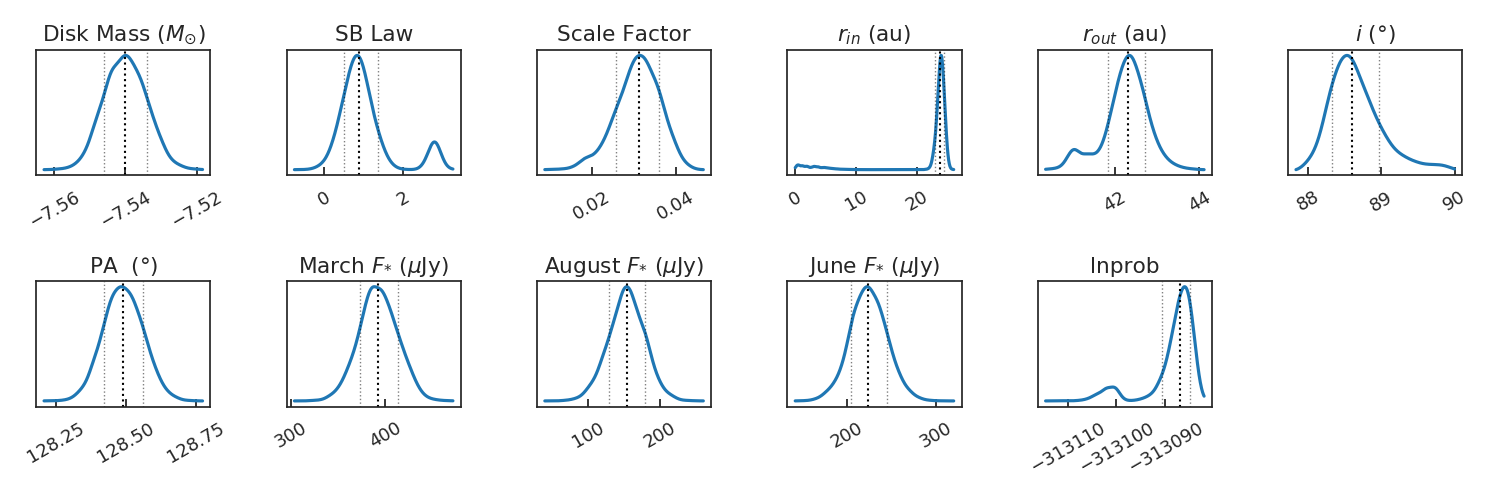
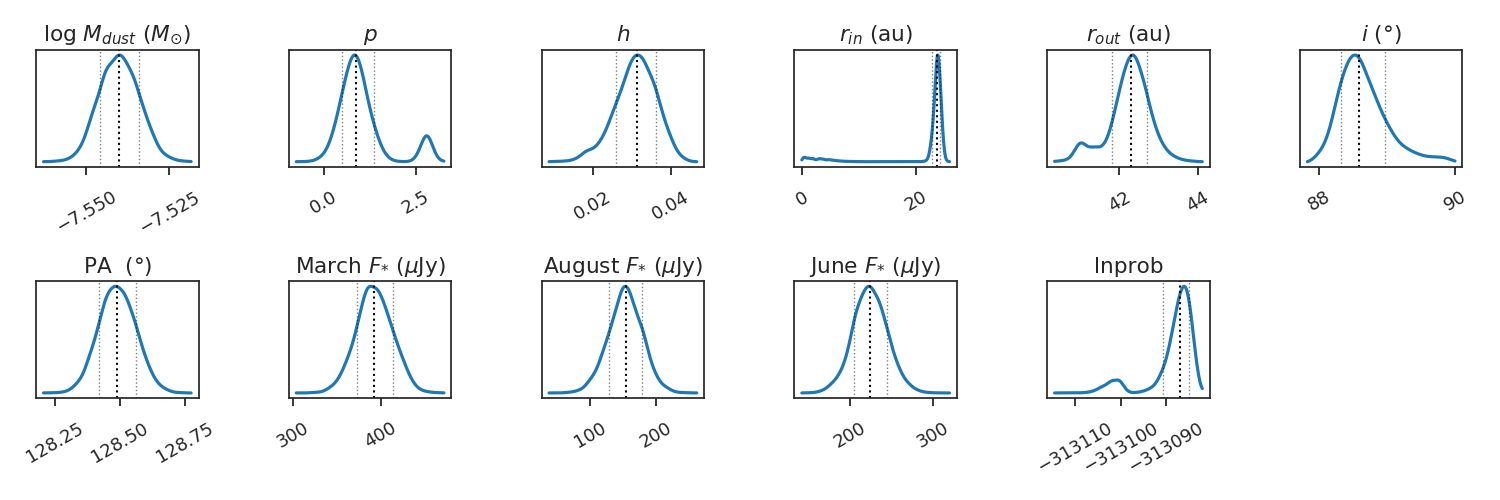
better plots

diff --git a/modeling/run19_fiducial.py b/modeling/run19_fiducial.py
@@ -64,7 +64,7 @@ This run consitutes (hopefully) our final, fiducial model.''')
         # old_nsamples = run.groomed.shape[0]
         # run.groomed = run.groomed[run.groomed['r_in'] + run.groomed['d_r'] > 20]
         # print('{} samples removed.'.format(old_nsamples - run.groomed.shape[0]))
-
+        
         if args.corner_vars:
             cols = list(run.groomed.columns)
             col_indices = [cols.index(col) for col in args.corner_vars]
@@ -72,7 +72,7 @@ This run consitutes (hopefully) our final, fiducial model.''')
         if args.analyze or args.best_fit: make_best_fits(run, concise=args.concise)
         aumic_fitting.label_fix(run)
         if args.corner_vars: corner_vars = run.groomed.columns[col_indices]
-
+        
         if args.analyze or args.evolution: run.evolution()
         if args.analyze or args.kernel_density: run.kde()
         if args.analyze or args.corner: run.corner(variables=corner_vars)
@@ -263,8 +263,8 @@ def make_best_fits(run, concise=False):
                ],
            title= run.name + r'Global Best Fit Model & Residuals',
           savefile=run.name+'/' + run.name + '_bestfit_global.pdf')
-
+          
 
 if __name__ == '__main__':
     main()
-
+    

diff --git a/writing/thesis/thesis_master.tex b/writing/thesis/thesis_master.tex
@@ -179,7 +179,7 @@ We examine the significance of these features more carefully in Section \ref{sec
 
 \section{Analysis}
 \label{section: analysis}
-Previous studies of the scale height of debris disks have demonstrated a degeneracy between vertical structure, radial structure, and viewing geometry (\textbf{insert appropriate citations}.. Hughes?).  
+Previous studies of the scale height of debris disks have demonstrated a degeneracy between vertical structure, radial structure, and viewing geometry \citep[e.g.][]{milli14}.  
 The modeling approach we adopt is designed to use appropriate ray tracing along with MCMC methods to investigate the degree to which these known degeneracies impact our ability to measure the vertical structure of the disk.  
 We use the parametric structure and ray tracing disk code described in \cite{flaherty15}, itself an adaptation of earlier work by \cite{rosenfeld13}.
 Synthetic sky-projected images are generated from an assumed temperature and density structure and are subsequently Fourier transformed to create model visibilities that can be directly compared to the interferometric data.

diff --git a/modeling/aumic_fitting.py b/modeling/aumic_fitting.py
@@ -46,11 +46,12 @@ def label_fix(run):
         df.loc[:,'inc'].where(df.loc[:,'inc'] < 90, 180-df.loc[:,'inc'], inplace=True)
         
         df.rename(inplace=True, columns={
-            'm_disk' : r'Disk Mass ($M_{\odot}$)', 
-            'sb_law' : r'SB Law',
-            'scale_factor' : r'Scale Factor', 
+            'm_disk' : r'$\log \ M_{dust}$ ($M_{\odot}$)', 
+            'sb_law' : r'$p$',
+            'scale_factor' : r'$h$', 
             'r_in' : r'$r_{in}$ (au)',
             'd_r' : r'$r_{out}$ (au)',
+            # 'd_r' : r'$\Delta r$ (au)',
             'inc' : r'$i$ ($\degree$)',
             'pa'  : r'PA  ($\degree$)',
             'mar_starflux' : r'March $F_{*}$ ($\mu$Jy)',

diff --git a/modeling/compare_runs.py b/modeling/compare_runs.py
@@ -21,8 +21,12 @@ for i in range(6,100):
 run_names = [glob(run + '_*')[0][:-3] for run in runs]
 
 # pull nsamples, number of free params, and min chi^2 from each chain
+
 for run, run_name in zip(runs, run_names):
     chain = pd.read_csv('{}/{}_chain.csv'.format(run,run))
+    # print(run_name + ':') 
+    # print(chain.shape[0])
+    chain = chain.iloc[-2000*50:,:]
 
     run_info.loc[run_name, 'samples'] = chain.shape[0]
     run_info.loc[run_name, 'k'] = chain.shape[1]
